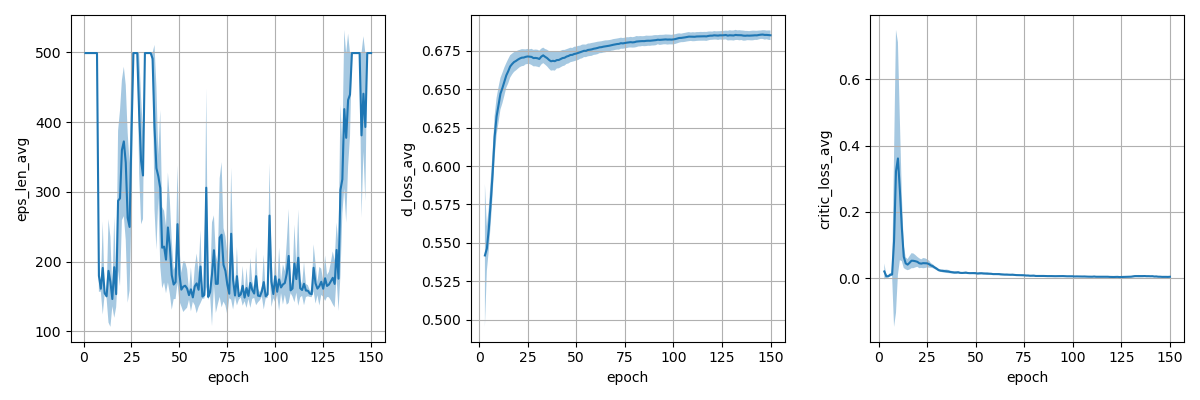
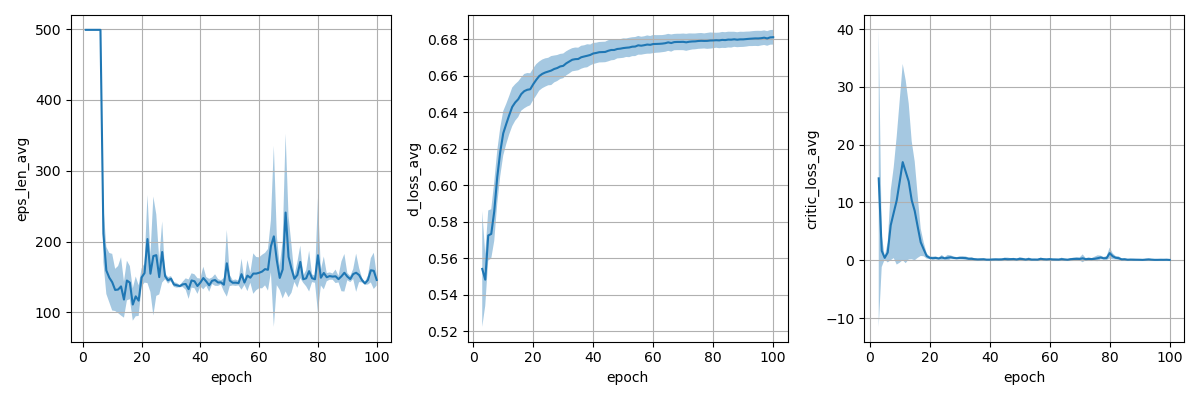
update readme, doc pdf, and figures with new results after fixing terminal states

diff --git a/README.md b/README.md
@@ -18,11 +18,18 @@ We perform experiments in the discrete-action mountain car environment. We compu
 
 ## Usage
 To generate demonstrations, run:
-
-```python ./scripts/create_demonstrations.py```
+```
+python ./scripts/create_demonstrations.py
+```
 
 To train the NAIL policy, run:
-
-```sh ./scripts/train_agent.sh```
+```
+sh ./scripts/train_agent.sh
+```
 
 You can modify the ``-algo`` argument in the ``.sh`` file to train AIL policy.
+
+To test trained agents, run:
+```
+python ./scripts/test_agent.py --exp_name "your_experiment_name"
+```
